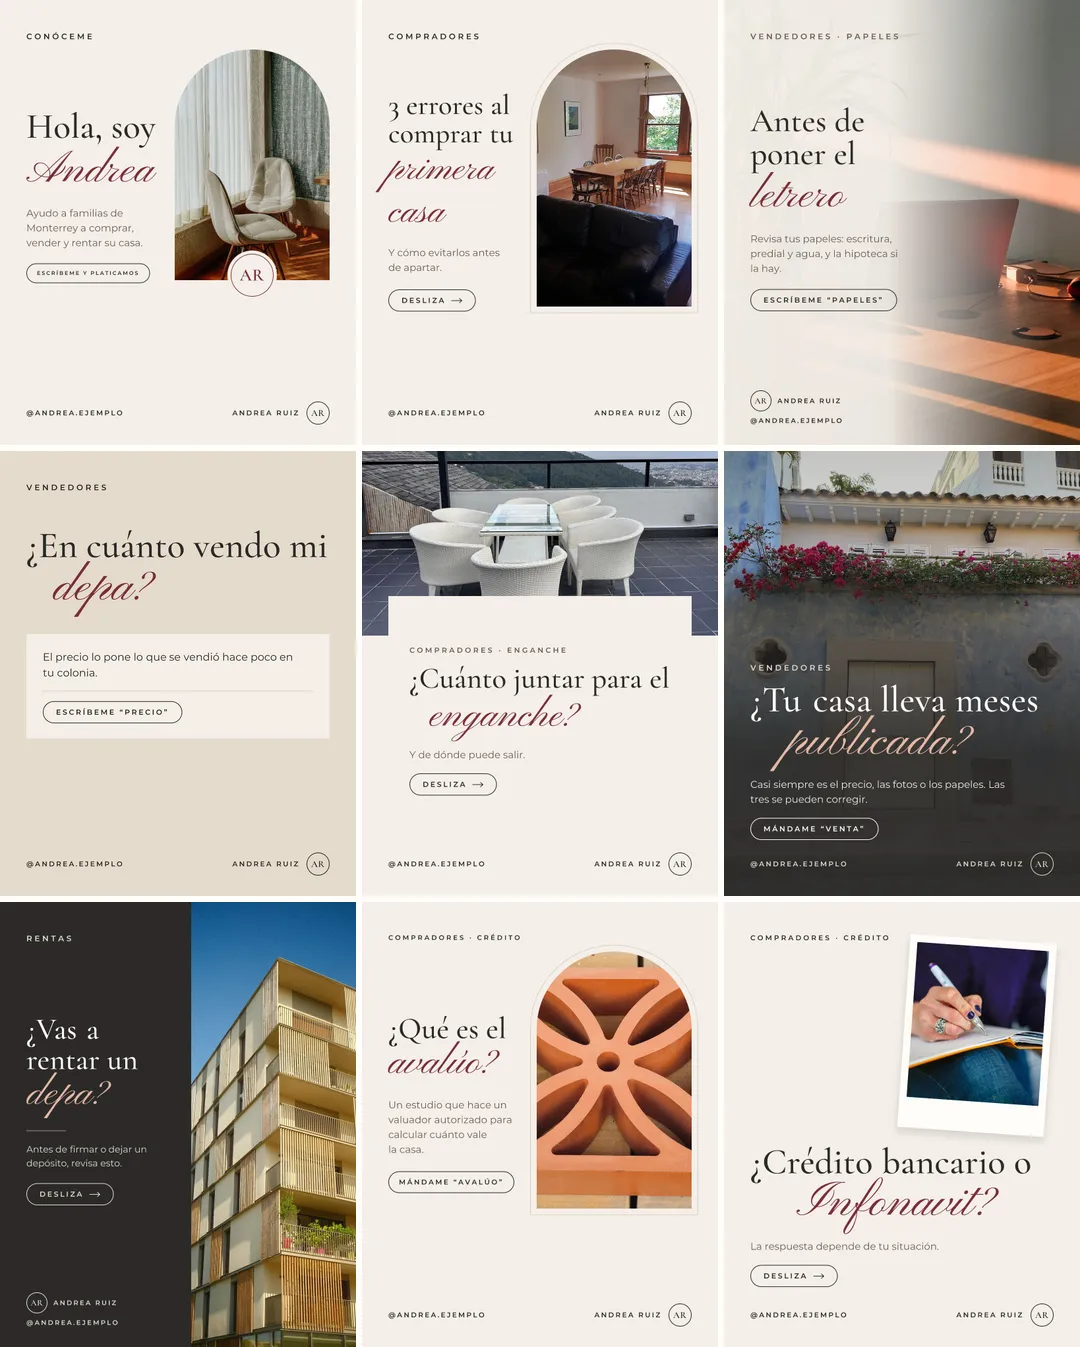
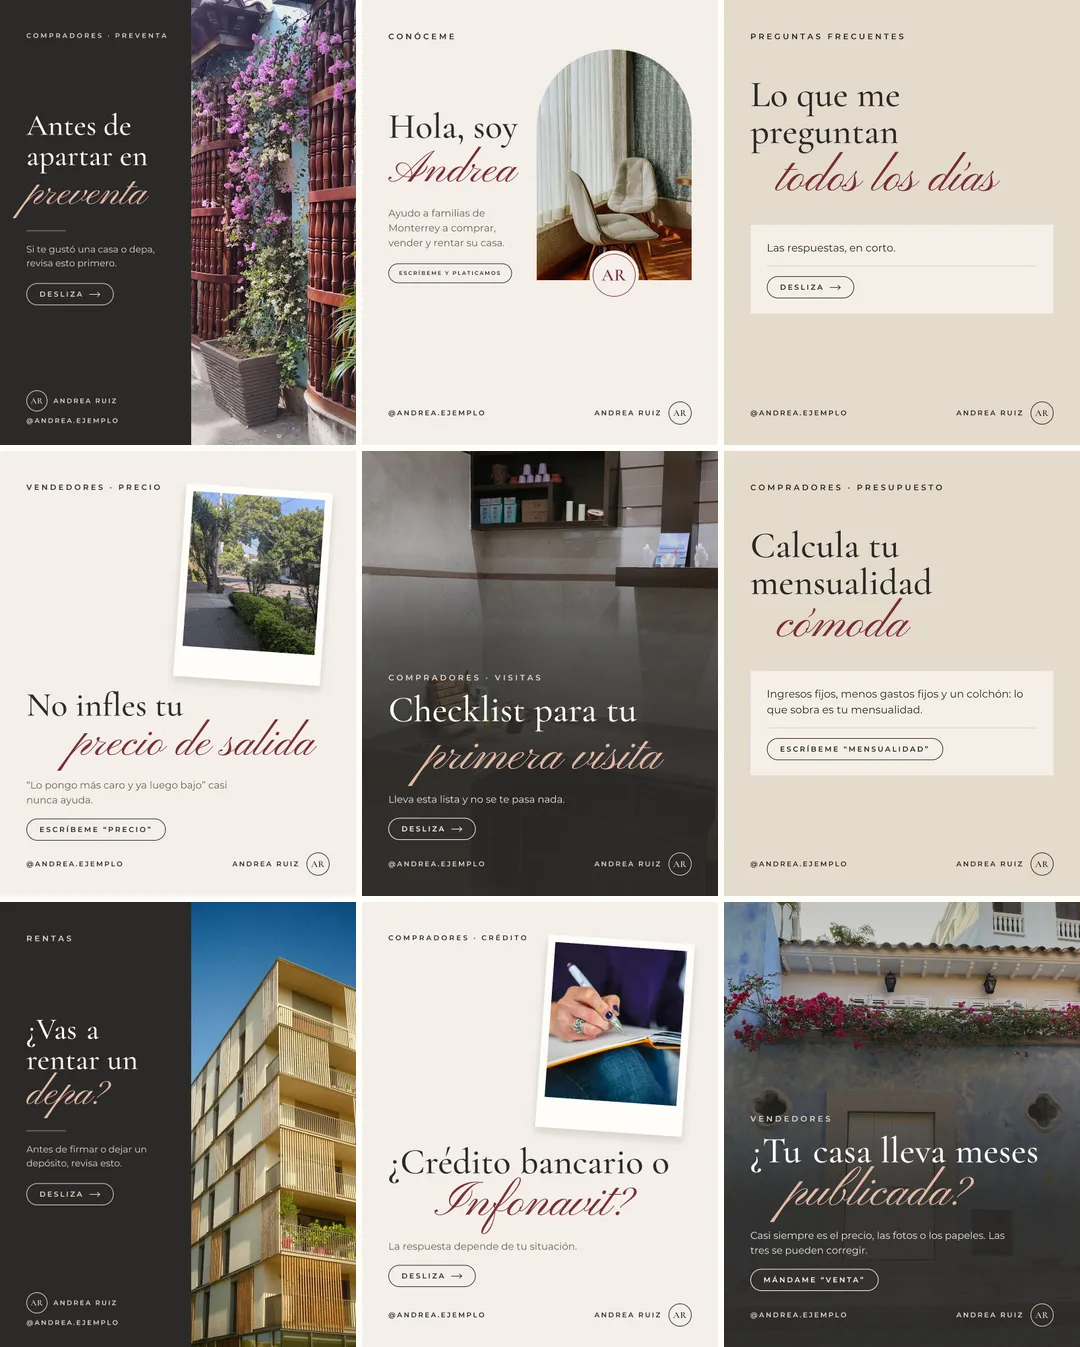
Versión 2 en /v2 terminada y pulso del botón de compra una sola vez
Claude-Session: https://claude.ai/code/session_01V9RpCNX2e92uKCGwheNyK5

diff --git a/app/v2/page.tsx b/app/v2/page.tsx
@@ -16,7 +16,7 @@ import "./v2.css";
 
 export const metadata: Metadata = {
   title: { absolute: "Publica y Capta · 90 días de contenido con tu marca" },
-  description: "90 publicaciones con el texto completo, 40 diseños con tu logo y tus colores y 30 guiones de reels para Instagram, Facebook y WhatsApp. Pago único.",
+  description: "90 publicaciones con el texto completo, 40 diseños con tu logo y tus colores, y 30 guiones de reels para Instagram, Facebook y WhatsApp. Pago único.",
   robots: { index: false, follow: false },
 };
 
@@ -87,10 +87,10 @@ const PREGUNTAS: [string, ReactNode][] = [
   ["¿Tengo que salir en video?", "No. De los 30 guiones, 15 son sin salir a cámara: texto en pantalla, tomas de casas y voz en off si quieres."],
   ["¿Sirve para mi ciudad? ¿Y si trabajo en una inmobiliaria?", "Sí. Los textos no dependen de una ciudad: en el formulario pones tu zona y tus colonias, y los textos salen con ellas. Si trabajas en una inmobiliaria o franquicia, los diseños pueden llevar tu logo o el de tu oficina."],
   ["¿Me garantiza clientes?", "No. Nadie te lo puede garantizar. Lo que te da es contenido listo para que publiques con constancia y quien te busque encuentre un perfil activo y profesional."],
-  ["¿Y si no me sirve?", <>{SOPORTE ? <>Escríbenos<ASoporte /></> : process.env.CORREO_RESPUESTAS ? "Responde al correo con el que recibiste tu acceso" : "Escríbenos"} dentro de los 7 días naturales siguientes a tu compra y te devolvemos lo que pagaste. Al reembolsarte se desactiva tu acceso.</>],
+  ["¿Y si no me sirve?", <>{SOPORTE ? <>Escríbenos<ASoporte /></> : process.env.CORREO_RESPUESTAS ? "Responde el correo en el que te llegó tu acceso" : "Escríbenos"} dentro de los 7 días naturales siguientes a tu compra y te devolvemos lo que pagaste. Al reembolsarte se desactiva tu acceso. Las condiciones están en los <a href="/terminos">términos y condiciones</a>.</>],
 ];
 
-type Autor = { nombre: string; rol: string; texto: string[]; foto: string };
+type Autor = { nombre?: string; rol?: string; texto?: string[]; foto?: string };
 
 function Marca() {
   return <a className="marca" href="/v2" aria-label="Publica y Capta, inicio"><span className="monograma">P<i>y</i>C</span><b>Publica y Capta</b></a>;
@@ -128,6 +128,7 @@ function PerfilIG({ usuario, ini, nombre, bio, img, alt, color, carga = "lazy" }
         <ul className="v2-ig-destacadas">
           {DESTACADAS.map((d) => <li key={d}><i style={{ borderColor: color }} />{d}</li>)}
         </ul>
+        <div className="v2-ig-tabs"><i /><i /><i /></div>
       </div>
       <img src={img} width={1080} height={1347} alt={alt} loading={carga} />
     </div>
@@ -167,7 +168,7 @@ function Dispositivos({ prioridad, decorativa }: { prioridad?: boolean; decorati
       <Telefono className="v2-disp-der">
         <img src="/web/muestra-5.webp" width={540} height={960} alt={decorativa ? "" : "Historia del pack con espacio para la caja de preguntas"} loading={carga} />
       </Telefono>
-      {!decorativa && <figcaption className="v2-solo-lector">Carruseles, posts e historias reales del pack, armados con una marca de ejemplo</figcaption>}
+      {!decorativa && <figcaption className="l-solo-lector">Carruseles, posts e historias reales del pack, armados con una marca de ejemplo</figcaption>}
     </figure>
   );
 }
@@ -193,7 +194,7 @@ function Galeria({ imagenes, etiqueta, inversa }: { imagenes: Img[]; etiqueta: s
 /** "Quién está detrás": solo si content/autor.json tiene nombre. Nada inventado. */
 function QuienEsta() {
   const a = autor as Autor;
-  if (!a.nombre.trim()) return null;
+  if (!a.nombre?.trim()) return null;
   return (
     <section className="v2-sec v2-clara v2-autor">
       <div className="v2-ancho">
@@ -203,7 +204,7 @@ function QuienEsta() {
           <div>
             <h2>{a.nombre}</h2>
             {a.rol && <p className="v2-autor-rol">{a.rol}</p>}
-            {a.texto.map((t, i) => <p key={i}>{t}</p>)}
+            {(a.texto ?? []).map((t, i) => <p key={i}>{t}</p>)}
           </div>
         </div>
       </div>
@@ -252,14 +253,14 @@ export default function V2() {
           <div className="v2-ancho v2-centro">
             <Etiqueta>Hecho con tu marca</Etiqueta>
             <h2>Todo sale <em>con tus colores</em></h2>
-            <p className="v2-bajada">Llenas un formulario con tu logo, tus colores, tu zona y tus datos, y con eso se arman los 40 diseños y los 90 textos. Aquí, las mismas piezas con dos marcas de ejemplo.</p>
+            <p className="v2-bajada">Llenas un formulario con tu logo, tus colores, tu zona y tus datos, y con eso se arman los 40 diseños y los 90 textos. Aquí, el pack armado con dos marcas de ejemplo.</p>
             <div className="v2-dos-tel">
               <figure>
                 <Telefono><PerfilIG {...LAURA} alt={`Perfil de Instagram con los diseños del pack en ${COLORES_LAURA}`} /></Telefono>
                 <figcaption><Muestras p={PERFIL_EJEMPLO} />Marca de ejemplo en {COLORES_LAURA}</figcaption>
               </figure>
               <figure>
-                <Telefono><PerfilIG {...ANDREA} alt={`Perfil de Instagram con los mismos diseños del pack en ${COLORES_ANDREA}`} /></Telefono>
+                <Telefono><PerfilIG {...ANDREA} alt={`Perfil de Instagram con los diseños del pack en ${COLORES_ANDREA}`} /></Telefono>
                 <figcaption><Muestras p={PERFIL_EJEMPLO_2} />Marca de ejemplo en {COLORES_ANDREA}</figcaption>
               </figure>
             </div>
@@ -285,10 +286,10 @@ export default function V2() {
         </section>
 
         {/* 4. Galerías */}
-        <section className="v2-sec v2-galerias" aria-labelledby="v2-carruseles">
+        <section className="v2-sec v2-galerias">
           <div className="v2-ancho v2-centro">
             <Etiqueta>Galería · Carruseles</Etiqueta>
-            <h2 id="v2-carruseles">Carruseles que <em>enseñan</em></h2>
+            <h2>Carruseles que <em>enseñan</em></h2>
             <p className="v2-sub">23 carruseles sobre enganche, crédito, papeles, precio y rentas. Aquí van algunos.</p>
             <label className="v2-pausa"><input type="checkbox" /> Detener las galerías</label>
           </div>
@@ -296,7 +297,7 @@ export default function V2() {
           <div className="v2-ancho v2-centro v2-galeria-2">
             <Etiqueta>Galería · Posts e historias</Etiqueta>
             <h2>Posts e <em>historias</em></h2>
-            <p className="v2-sub">11 posts y 6 historias, con espacio para encuestas y cajas de preguntas.</p>
+            <p className="v2-sub">11 posts y 6 historias; las historias traen espacio para tu encuesta o tu caja de preguntas.</p>
           </div>
           <Galeria imagenes={POSTS} etiqueta="Ejemplos de posts e historias del pack" inversa />
           <div className="v2-ancho">
@@ -333,8 +334,8 @@ export default function V2() {
           <div className="v2-ancho v2-dos-col">
             <div className="v2-col-cab">
               <Etiqueta>El texto, completo</Etiqueta>
-              <h2>No solo el diseño: <em>lo que escribes</em></h2>
-              <p className="v2-texto">Cada uno de los 90 días trae el texto entero, con tus datos ya puestos. En unos cuantos (los de tus propiedades y tu historia) solo completas lo que va entre corchetes. Este es el del día 9, tal como le sale a la marca de ejemplo.</p>
+              <h2>No solo el diseño: <em>también el texto</em></h2>
+              <p className="v2-texto">Cada uno de los 90 días trae el texto entero, con tus datos ya puestos. En algunos, como los de tus propiedades o tu historia, completas lo que va entre corchetes. Este es el del día 9, tal como le sale a la marca de ejemplo.</p>
             </div>
             <article className="v2-col-media v2-post" aria-label="Ejemplo de publicación del día 9">
               <header className="v2-post-cab"><span className="v2-ig-ini" style={{ borderColor: LAURA.color, color: LAURA.color }}>{LAURA.ini}</span><div><b>{LAURA.usuario}</b><span>{PERFIL_EJEMPLO.ciudad}</span></div></header>
@@ -364,11 +365,11 @@ export default function V2() {
           <div className="v2-ancho v2-centro">
             <Etiqueta>Reels</Etiqueta>
             <h2>30 guiones de reels, <em>toma por toma</em></h2>
-            <p className="v2-bajada">Qué grabar en cada segundo, qué texto poner en pantalla y qué decir. Se graban con el celular, sin equipo.</p>
+            <p className="v2-bajada">Qué grabar en cada toma, qué texto poner en pantalla y, si quieres, qué decir en voz en off. Se graban con el celular, sin equipo.</p>
           </div>
           <div className="v2-ancho">
             <figure className="v2-guion">
-              <div className="v2-guion-cab"><span>Día 5 · Infonavit: cuánto te prestan</span><span className="v2-guion-tipo">Sin cara · 30 a 35 segundos</span></div>
+              <div className="v2-guion-cab"><span>Día 5 · Infonavit: cuánto te prestan</span><span className="v2-guion-tipo">Sin salir a cámara · 30 a 35 segundos</span></div>
               <p className="v2-guion-sub">Gancho: elige uno para los primeros 3 segundos</p>
               <ol className="v2-guion-ganchos">
                 <li>“¿Cotizas en el Infonavit y no sabes cuánto te prestan?”</li>
@@ -379,7 +380,7 @@ export default function V2() {
                 <thead><tr><th scope="col">Seg.</th><th scope="col">Toma</th><th scope="col">Texto en pantalla</th></tr></thead>
                 <tbody>
                   <tr><td>0-3</td><td>Fachada de una casa; el celular entra a cuadro desde abajo</td><td>El gancho que elegiste</td></tr>
-                  <tr><td>3-7</td><td>Tu mano con el celular en una pantalla de inicio de sesión</td><td>“Entra a Mi Cuenta Infonavit con tu NSS”</td></tr>
+                  <tr><td>3-7</td><td>Tu mano con el celular en una pantalla de inicio de sesión, sin datos reales</td><td>“Entra a Mi Cuenta Infonavit con tu NSS”</td></tr>
                   <tr><td>7-11</td><td>Plano cerrado: tu pulgar baja por la pantalla</td><td>“Ahí ves tu precalificación”</td></tr>
                 </tbody>
               </table>
@@ -397,9 +398,9 @@ export default function V2() {
         {/* 8. Y además */}
         <section className="v2-sec v2-ademas">
           <div className="v2-ancho v2-centro">
-            <Etiqueta llena>Para arrancar</Etiqueta>
+            <Etiqueta llena>Bonos y extras</Etiqueta>
             <h2>Dos bonos y lo que necesitas <em>para&nbsp;arrancar</em></h2>
-            <p className="v2-bajada">Dos bonos, más el calendario y la versión para estados de WhatsApp, para que publiques desde el primer día.</p>
+            <p className="v2-bajada">Además del calendario y la versión para tus estados de WhatsApp, te llevas dos bonos para dejar listo tu perfil y adaptar los textos a tu colonia.</p>
           </div>
           <div className="v2-ancho">
             <ul className="v2-extras">
@@ -429,7 +430,7 @@ export default function V2() {
             </div>
             <ul className="v2-lista">
               {RESUMEN.map(([tipo, t, d]) => (
-                <li key={t}><span className={`v2-tipo v2-tipo-${tipo.toLowerCase()}`}>{tipo}</span><p><b>{t}</b> <span>· {d}</span></p></li>
+                <li key={t}><span className={`v2-tipo v2-tipo-${tipo.toLowerCase()}`}>{tipo}</span><p><b>{t}</b>{"\u00a0·"} <span>{d}</span></p></li>
               ))}
             </ul>
           </div>
@@ -458,7 +459,7 @@ export default function V2() {
               <p className="v2-monto">{PRECIO}</p>
               <p className="v2-precio-nota">Pago único, sin suscripción</p>
               <Comprar className="compra">Quiero mi pack <span className="flecha" aria-hidden /></Comprar>
-              <p className="v2-precio-pie"><span className="nw">Acceso por correo al terminar el pago</span> <span className="nw"><span className="v2-sep" aria-hidden>· </span>Reembolso en 7 días</span></p>
+              <p className="v2-precio-pie"><span className="nw">Acceso por correo al terminar el pago</span> <span className="nw"><span className="v2-sep" aria-hidden>· </span>Reembolso en 7 días naturales</span></p>
               <p className="v2-precio-pie">Antes de pagar, lee los <a href="/terminos">términos y condiciones</a>.</p>
             </div>
           </div>

diff --git a/app/v2/v2.css b/app/v2/v2.css
@@ -9,7 +9,6 @@
 .v2 h1 em, .v2 h2 em, .v2 h3 em { color: var(--v2-dorado); }
 .v2 :focus-visible { outline: 2px solid var(--v2-dorado); outline-offset: 3px; }
 .v2 .compra:focus-visible { outline: 3px solid var(--v2-texto); outline-offset: 4px; }
-.v2-solo-lector { position: absolute; width: 1px; height: 1px; overflow: hidden; clip-path: inset(50%); white-space: nowrap; }
 .v2-ancho { max-width: 1100px; margin: 0 auto; padding: 0 20px; }
 .v2-angosto { max-width: 800px; }
 .v2-centro { text-align: center; }
@@ -84,8 +83,11 @@
 .v2-ig-destacadas { list-style: none; margin: 4.5cqw 0 0; padding: 0; display: flex; justify-content: space-between; }
 .v2-ig-destacadas li { display: flex; flex-direction: column; align-items: center; gap: 1.6cqw; width: 19cqw; font-size: 3cqw; line-height: 1.1; text-align: center; color: var(--carbon); }
 .v2-ig-destacadas i { width: 14cqw; height: 14cqw; border: .6cqw solid; border-radius: 50%; background: #EFEAE2; box-shadow: 0 0 0 .8cqw #FFFDF9 inset; }
-/* La cuadrícula llena hasta abajo de la pantalla, como si el perfil siguiera. */
-.v2-ig img { flex: 1 0 auto; width: 100%; height: auto; min-height: 0; object-fit: cover; object-position: top center; }
+.v2-ig-tabs { display: flex; justify-content: space-around; align-items: center; height: 10.6cqw; margin: 3.5cqw -5cqw -3.5cqw; border-top: .3cqw solid #E5DED3; }
+.v2-ig-tabs i { width: 4.5cqw; height: 4.5cqw; border: .45cqw solid #B5ACA0; border-radius: .8cqw; }
+.v2-ig-tabs i:first-child { border-color: var(--carbon); }
+/* La cuadrícula, completa a lo ancho; si sobra, la pantalla la corta por abajo como un feed que sigue. */
+.v2-ig img { flex: 0 0 auto; width: 100%; height: auto; }
 
 /* 2. Sección clara */
 .v2-clara { background: var(--crema); color: var(--carbon); }
@@ -327,7 +329,11 @@
   .v2-copia { display: block; }
   .v2-pista { animation: v2-pasar 70s linear infinite; }
   .v2-galeria.inversa .v2-pista { animation-direction: reverse; }
-  .v2-galeria:hover .v2-pista, .v2-galeria:focus .v2-pista, .v2-galerias:has(.v2-pausa input:checked) .v2-pista { animation-play-state: paused; }
+  .v2-galeria:hover .v2-pista, .v2-galeria:focus .v2-pista { animation-play-state: paused; }
+  /* Con "Detener", las galerías quedan como en celular: completas y desplazables. */
+  .v2-galerias:has(.v2-pausa input:checked) .v2-galeria { overflow-x: auto; -webkit-mask-image: none; mask-image: none; padding-inline: 20px; }
+  .v2-galerias:has(.v2-pausa input:checked) .v2-pista { animation: none; }
+  .v2-galerias:has(.v2-pausa input:checked) .v2-copia { display: none; }
   .v2-pausa { display: inline-flex; align-items: center; gap: 8px; margin-top: 16px; font: 500 13px/1.3 var(--sans); letter-spacing: normal; text-transform: none; color: var(--v2-suave); cursor: pointer; }
   .v2-pausa input { width: 16px; height: 16px; margin: 0; accent-color: var(--v2-dorado); }
 }

diff --git a/scripts/imagenes-v2.tsx b/scripts/imagenes-v2.tsx
@@ -1,5 +1,5 @@
 // Imágenes de /v2 con una segunda marca de ejemplo (otro color) para mostrar que todo sale con los colores del asesor.
-// Uso: FOTOS_DIR=fotos npx tsx scripts/imagenes-v2.tsx   → public/web/v2/*.webp
+// Uso: FOTOS_DIR=fotos ./node_modules/.bin/tsx scripts/imagenes-v2.tsx   → public/web/v2/*.webp
 import { mkdirSync } from "node:fs";
 import path from "node:path";
 import sharp from "sharp";
@@ -12,10 +12,8 @@ import { NEUTROS } from "../lib/estilo";
 const SALIDA = path.join(process.cwd(), "public/web/v2");
 mkdirSync(SALIDA, { recursive: true });
 
-const PERFIL_V2 = PERFIL_EJEMPLO_2;
-
-const m = await prepararMarca(PERFIL_V2);
-const piezas = catalogo((t) => reemplazar(t, PERFIL_V2));
+const m = await prepararMarca(PERFIL_EJEMPLO_2);
+const piezas = catalogo((t) => reemplazar(t, PERFIL_EJEMPLO_2));
 
 async function pieza(id: string) {
   const i = piezas.findIndex((p) => p.id === id);
@@ -28,8 +26,8 @@ async function pieza(id: string) {
 
 const webp = (b: Buffer, w: number, out: string, q = 80) => sharp(b).resize({ width: w }).webp({ quality: q }).toFile(path.join(SALIDA, out));
 
-// Perfil 3x3 con las mismas piezas que public/web/perfil.webp, para compararlos lado a lado.
-const feed = ["dia-01", "dia-02-1", "dia-03", "dia-06", "dia-08-1", "dia-09", "dia-10-1", "dia-11", "dia-15-1"];
+// Perfil 3x3: 4 piezas en común con public/web/perfil.webp (01, 09, 10-1, 15-1) y otras donde el color pesa más, en otro orden.
+const feed = ["dia-28-1", "dia-01", "dia-20-1", "dia-40", "dia-42-1", "dia-52", "dia-10-1", "dia-15-1", "dia-09"];
 const T = { w: 356, h: 445, g: 6 };
 const tiles = await Promise.all(feed.map(async (id) => sharp(await pieza(id)).resize(T.w, T.h).png().toBuffer()));
 const perfil = await sharp({ create: { width: T.w * 3 + T.g * 2, height: T.h * 3 + T.g * 2, channels: 4, background: NEUTROS.blanco } })

diff --git a/app/landing.css b/app/landing.css
@@ -19,7 +19,7 @@
 /* Pulso: un anillo que sale por fuera del botón, sin aclarar el fondo detrás del texto. */
 .compra::after { content: ""; position: absolute; z-index: -1; inset: 0; border-radius: inherit; pointer-events: none; }
 @keyframes compra-pulso { 0%, 55% { box-shadow: 0 0 0 0 rgba(180,83,47,.5); } 100% { box-shadow: 0 0 0 14px rgba(180,83,47,0); } }
-@media (prefers-reduced-motion: no-preference) { .compra::after { animation: compra-pulso 3s ease-out 4; } }
+@media (prefers-reduced-motion: no-preference) { .compra::after { animation: compra-pulso 3s ease-out 1; } }
 .l-como .compra:focus-visible, .l-oferta .compra:focus-visible, .l-cierre .compra:focus-visible, .l-oferta a:focus-visible { outline-color: var(--blanco); }
 .l-como .compra, .l-oferta .compra, .l-cierre .compra { box-shadow: 0 0 0 1px rgba(255,253,249,.2), 0 16px 32px -10px rgba(0,0,0,.6); }
 
